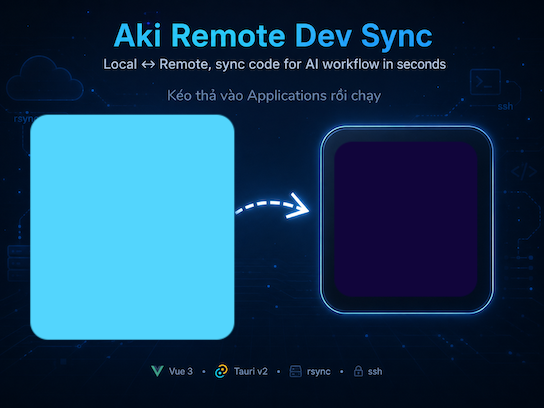
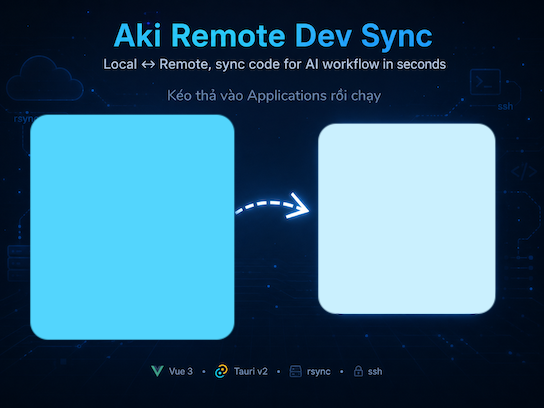
1.2.4

Changed region(s): [[0.5625, 0.2941, 0.9375, 0.7941]]

diff --git a/src/components/ProjectTable.vue b/src/components/ProjectTable.vue
@@ -120,7 +120,7 @@
               </button>
 
               <button class="btn-tech btn-tech-push-special" @click="openSpecialModal(p)" :disabled="projectRuntime[p.id]?.syncing" title="Select specific files to push">
-                PUSH SPECIAL
+                SELECT
               </button>
 
               <div class="dry-group" :class="p.dry_run ? 'is-safe' : 'is-danger'">
@@ -243,7 +243,15 @@ async function openIdeLocal(ideName, path) {
 
 async function openIdeRemote(ideName, host, path) {
   try {
-    const remotePath = path.startsWith('/') ? path : `/${path}`;
+    let resolvedPath = path;
+    if (path.startsWith('~/') || path === '~') {
+      try {
+        resolvedPath = await invoke('resolve_remote_path', { host, path });
+      } catch (e) {
+        console.error('Failed to resolve remote path', e);
+      }
+    }
+    const remotePath = resolvedPath.startsWith('/') ? resolvedPath : `/${resolvedPath}`;
     if (ideName === 'vscode') {
       await invoke('macos_open', { args: [`vscode://vscode-remote/ssh-remote+${host}${remotePath}`] })
     } else if (ideName === 'vscode_insiders') {

diff --git a/src/composables/useAgentUsage.js b/src/composables/useAgentUsage.js
@@ -61,7 +61,13 @@ export function useAgentUsage(agentName, hostRef) {
     loading.value = true;
     error.value = null;
     try {
-      await invoke('force_sync_agent_usage', { agentName, host: hostRef.value });
+      const raw = await invoke('force_sync_agent_usage', { agentName, host: hostRef.value });
+      try {
+        const diag = JSON.parse(raw);
+        console.log(`[ForceSync] ${agentName}@${hostRef.value}:`, diag);
+      } catch (_) {
+        console.log(`[ForceSync] ${agentName}@${hostRef.value}: raw=`, raw);
+      }
       await checkUsage();
     } catch (e) {
       console.error(`Error force syncing ${agentName}:`, e);

diff --git a/vite.config.js b/vite.config.js
@@ -5,7 +5,8 @@ import { readFileSync } from "fs";
 const host = process.env.TAURI_DEV_HOST;
 
 const now = new Date();
-const buildDate = `${now.getFullYear()}.${String(now.getMonth() + 1).padStart(2, '0')}.${String(now.getDate()).padStart(2, '0')} ${String(now.getHours()).padStart(2, '0')}:${String(now.getMinutes()).padStart(2, '0')}`;
+const buildDate = `${now.getFullYear()}.${String(now.getMonth() + 1).padStart(2, '0')}.${String(now.getDate()).padStart(2, '0')}`;
+const buildHash = `${String(now.getHours()).padStart(2, '0')}${String(now.getMinutes()).padStart(2, '0')}`;
 const { version } = JSON.parse(readFileSync('./package.json', 'utf-8'));
 
 // https://vite.dev/config/
@@ -13,6 +14,7 @@ export default defineConfig(async () => ({
   plugins: [vue()],
   define: {
     '__BUILD_DATE__': JSON.stringify(buildDate),
+    '__BUILD_HASH__': JSON.stringify(buildHash),
     '__APP_VERSION__': JSON.stringify(version),
   },
 

diff --git a/src/components/AppHeader.vue b/src/components/AppHeader.vue
@@ -4,7 +4,7 @@
       <div class="logo-section" data-tauri-drag-region>
         <h1 data-tauri-drag-region>
           <img src="/titlebar-icon.png" class="app-icon mr-1" data-tauri-drag-region /> Aki Dev Sync
-          <span class="app-version clickable" @click="showChangelog" title="Click to view Changelog">v{{ appVersion }} ({{ buildDate }})</span>
+          <span class="app-version clickable" @click="showChangelog" title="Click to view Changelog">v{{ appVersion }} ({{ buildDate }} #{{ buildHash }})</span>
         </h1>
       </div>
       <div class="header-actions">
@@ -56,6 +56,7 @@ import RefreshSettingsModal from './modals/RefreshSettingsModal.vue';
 
 const appVersion = __APP_VERSION__;
 const buildDate = __BUILD_DATE__;
+const buildHash = __BUILD_HASH__;
 const showRefreshSettings = ref(false);
 
 function showChangelog() {

diff --git a/src/composables/useSync.js b/src/composables/useSync.js
@@ -90,7 +90,7 @@ export async function openSpecialModal(project) {
   specialSelected.value = []
   specialLoading.value = true
   try {
-    specialFiles.value = await invoke("get_project_files", { localPath: project.local_path })
+    specialFiles.value = await invoke("get_project_files", { localPath: project.local_path, syncGit: project.sync_git })
   } catch (err) {
     appendGlobalLog("ERROR", `Failed to load files: ${err}`)
   }

diff --git a/src-tauri/src/system.rs b/src-tauri/src/system.rs
@@ -162,6 +162,27 @@ pub fn check_ide_availability() -> IdeAvailability {
     }
 }
 
+#[tauri::command]
+pub fn resolve_remote_path(host: String, path: String) -> Result<String, String> {
+    if !path.starts_with("~/") && path != "~" {
+        return Ok(path);
+    }
+    
+    let expanded = expand_remote_tilde(&path);
+    
+    let mut command = create_command("ssh");
+    command.args([&host, "bash", "-c", &format!("echo {}", expanded)]);
+    
+    let output = command.output()
+        .map_err(|e| format!("Failed to resolve remote path: {}", e))?;
+        
+    if output.status.success() {
+        Ok(String::from_utf8_lossy(&output.stdout).trim().to_string())
+    } else {
+        Err(format!("SSH error resolving path: {}", String::from_utf8_lossy(&output.stderr)))
+    }
+}
+
 #[cfg(test)]
 mod tests {
     use super::*;

diff --git a/scripts/force-sync-parse.py b/scripts/force-sync-parse.py
@@ -1,14 +1,18 @@
 #!/usr/bin/env python3
 # Parses claude -p /usage stdout and writes usage data to rate-limits-cache.json.
+# Prints a JSON diagnostic line to stdout so the caller can log what happened.
 import sys, re, json, datetime, os
 
 out = os.environ.get("CLAUDE_SYNC_OUT", "")
+raw_preview = out[:300].strip()
+
 match = re.search(
     r'(\d+)%\s*used\s*.\s*resets\s*([a-zA-Z]+\s+\d+),\s*(\d+):(\d+)([ap]m)',
     out,
     re.IGNORECASE,
 )
 if not match:
+    print(json.dumps({"parsed": False, "raw_preview": raw_preview}))
     sys.exit(0)
 
 pct = int(match.group(1))
@@ -18,6 +22,7 @@ try:
     dt = datetime.datetime.strptime(date_str, "%b %d %Y %I:%M%p")
     resets_at = int(dt.timestamp())
 except Exception:
+    print(json.dumps({"parsed": False, "parse_error": True, "date_str": date_str}))
     sys.exit(0)
 
 cache_file = os.path.expanduser("~/.claude/rate-limits-cache.json")
@@ -37,8 +42,12 @@ data["rate_limits"]["five_hour"] = {
     "resets_at": resets_at,
 }
 
+written = False
 try:
     with open(cache_file, "w") as f:
         json.dump(data, f)
+    written = True
 except Exception:
     pass
+
+print(json.dumps({"parsed": True, "pct": pct, "resets_at": resets_at, "written": written}))

diff --git a/src-tauri/src/agent_usage.rs b/src-tauri/src/agent_usage.rs
@@ -54,7 +54,7 @@ pub async fn provision_agent_usage(agent_name: String, host: String) -> Result<b
 }
 
 #[tauri::command]
-pub async fn force_sync_agent_usage(agent_name: String, host: String) -> Result<bool, String> {
+pub async fn force_sync_agent_usage(agent_name: String, host: String) -> Result<String, String> {
     if agent_name != "claudecode" {
         return Err("Force sync not supported for this agent".into());
     }
@@ -79,7 +79,12 @@ pub async fn force_sync_agent_usage(agent_name: String, host: String) -> Result<
         }
     }
 
-    Ok(true)
+    let stdout = String::from_utf8_lossy(&output.stdout).trim().to_string();
+    if stdout.is_empty() {
+        Ok("{\"parsed\":false,\"raw_preview\":\"\"}".into())
+    } else {
+        Ok(stdout)
+    }
 }
 
 #[tauri::command]

diff --git a/src-tauri/src/git.rs b/src-tauri/src/git.rs
@@ -55,7 +55,7 @@ pub fn get_git_info(local_path: String) -> Result<GitInfo, String> {
 /// Returns modified/untracked files from `git status --porcelain` for the special push modal.
 /// Returns an empty list if the path is not a git repo or git fails.
 #[tauri::command]
-pub fn get_project_files(local_path: String) -> Result<Vec<String>, String> {
+pub fn get_project_files(local_path: String, sync_git: bool) -> Result<Vec<String>, String> {
     let path = Path::new(&local_path);
     if !path.exists() || !path.join(".git").exists() {
         return Ok(vec![]);
@@ -68,7 +68,7 @@ pub fn get_project_files(local_path: String) -> Result<Vec<String>, String> {
     if !out.status.success() {
         return Ok(vec![]);
     }
-    let files = String::from_utf8_lossy(&out.stdout)
+    let mut files: Vec<String> = String::from_utf8_lossy(&out.stdout)
         .lines()
         .filter(|s| !s.trim().is_empty())
         .filter_map(|s| {
@@ -81,5 +81,10 @@ pub fn get_project_files(local_path: String) -> Result<Vec<String>, String> {
             })
         })
         .collect();
+
+    if sync_git && path.join(".git").exists() {
+        files.insert(0, ".git/".to_string());
+    }
+
     Ok(files)
 }

diff --git a/src-tauri/src/lib.rs b/src-tauri/src/lib.rs
@@ -36,6 +36,7 @@ pub fn run() {
             system::open_remote_subprocess,
             system::get_project_icon_base64,
             system::check_ide_availability,
+            system::resolve_remote_path,
         ])
         .run(tauri::generate_context!())
         .expect("error while running tauri application");

diff --git a/CHANGELOG.md b/CHANGELOG.md
@@ -5,6 +5,23 @@ Format: [Keep a Changelog](https://keepachangelog.com/en/1.0.0/) · [Semantic Ve
 
 ---
 
+### [1.2.4] - 2026-06-23
+
+#### Added
+- **Build Identifier**: Added `#HHMM` build identifier to the titlebar (e.g., `v1.2.4 (2026.06.23 #1430)`) to distinguish same-day builds.
+- **Bundle Metadata**: Added `category`, `description`, `copyright`, and `publisher` to `tauri.conf.json` for OS-level app metadata.
+
+#### Changed
+- **Push Special UI**: Renamed the `PUSH SPECIAL` button to `SELECT`.
+- **Build Date Format**: Replaced the `HH:MM` time in `buildDate` with the new `#HHMM` build identifier.
+
+#### Fixed
+- **Special Push Git Sync**: Fixed empty modal issue by explicitly showing `.git/` when git sync is enabled, allowing manual git pushing even on a clean working tree.
+- **VSCode Remote SSH**: Fixed `~/` paths creating a literal `~` directory at the remote root. Paths are now automatically resolved to absolute paths via SSH before opening.
+- **Force Sync Diagnostics**: `force-sync-parse.py` now emits JSON diagnostics to stdout. If Force Sync fails silently, the exact reason is now logged in the browser console.
+
+---
+
 ### [1.2.3] - 2026-06-23
 
 #### Added